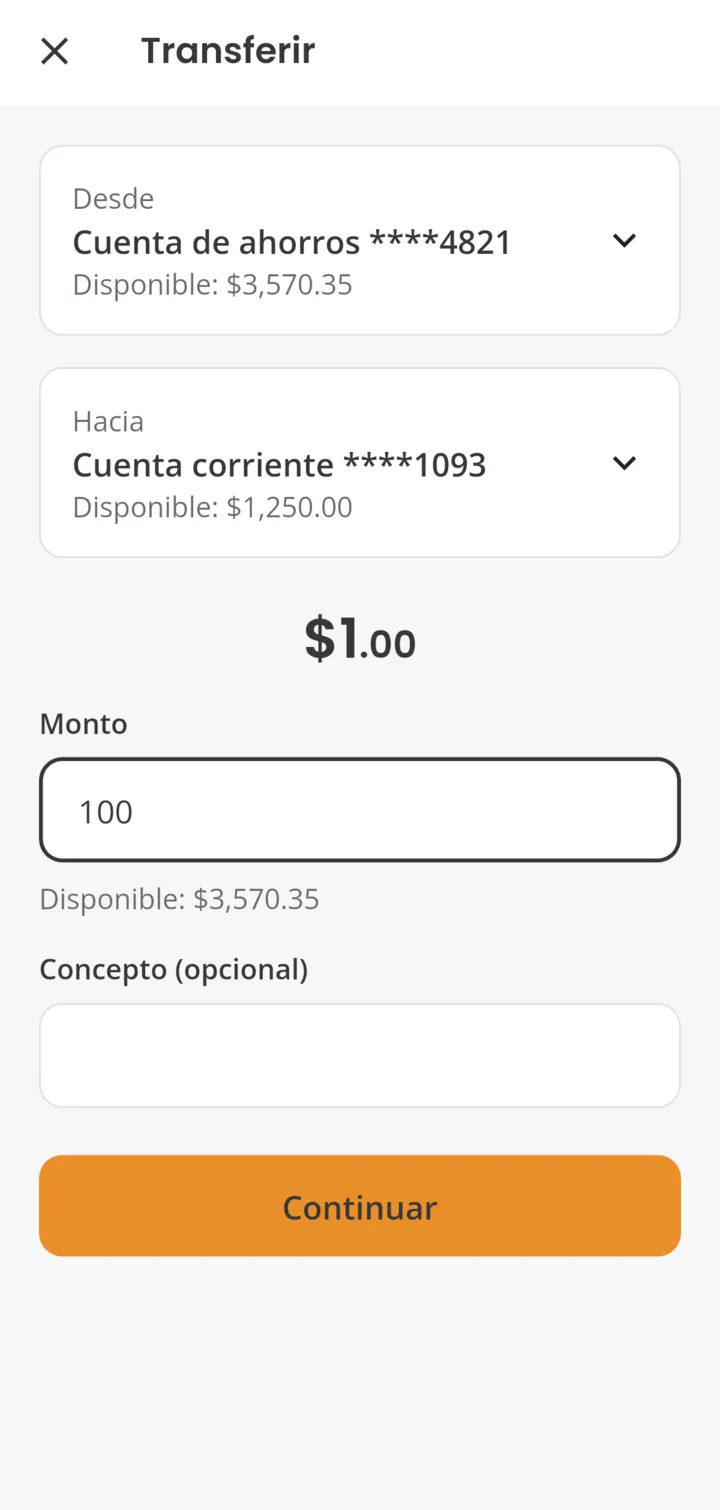
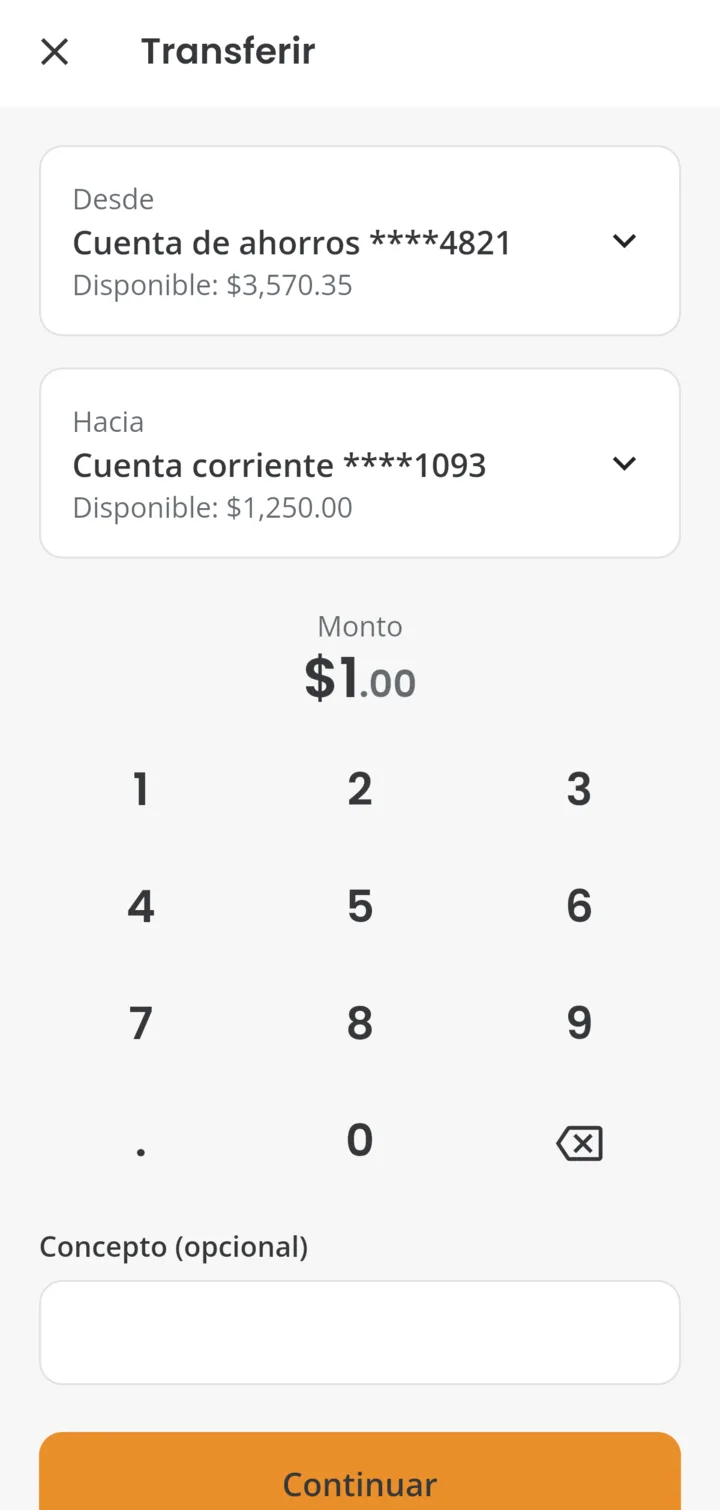
docs: describe the amount keypad and state what was checked on iOS
The transfer form image and its caption show the keypad. The iOS notes
say the app was walked through on a physical iPhone without failures,
that push is not configured there and that the detailed checks were made
on Android. The README gains the steps to build for iOS.

diff --git a/apps/showroom/public/documentacion.html b/apps/showroom/public/documentacion.html
@@ -96,7 +96,7 @@
 
               <h3>Transferencias</h3>
               <ul class="shots">
-                <li><figure class="shot"><a href="assets/img/app-transferir.webp"><img src="assets/img/app-transferir.webp" width="720" height="1510" loading="lazy" alt="Formulario de transferencia con cuenta de origen, cuenta de destino, monto y concepto. El campo muestra 100 y el importe $1.00."></a><figcaption>Formulario. El monto se escribe en centavos: 100 es $1.00.</figcaption></figure></li>
+                <li><figure class="shot"><a href="assets/img/app-transferir.webp"><img src="assets/img/app-transferir.webp" width="720" height="1510" loading="lazy" alt="Formulario de transferencia con cuenta de origen, cuenta de destino, monto, teclado numérico en pantalla y concepto. El importe muestra $1.00."></a><figcaption>Formulario. El monto se escribe con el teclado de la pantalla: 1 es $1.00.</figcaption></figure></li>
                 <li><figure class="shot"><a href="assets/img/app-transferir-confirmar.webp"><img src="assets/img/app-transferir-confirmar.webp" width="720" height="1510" loading="lazy" alt="Confirmación de la transferencia con el monto y las dos cuentas."></a><figcaption>Confirmación.</figcaption></figure></li>
                 <li><figure class="shot"><a href="assets/img/app-transferir-resultado.webp"><img src="assets/img/app-transferir-resultado.webp" width="720" height="1510" loading="lazy" alt="Resultado Transferencia realizada con el monto y la referencia."></a><figcaption>Resultado, con la referencia del servidor.</figcaption></figure></li>
               </ul>
@@ -273,7 +273,7 @@
                     <tr><td>Notificaciones y bandeja</td><td><span class="state state--yes">Visto en un teléfono</span></td><td>Android. Un envío a un segmento desde la consola desplegada llegó al teléfono.</td></tr>
                     <tr><td>Servicios de aliados</td><td><span class="state state--part">Simulado</span></td><td>Los dos aliados son de demostración y comparten servidor con la consola.</td></tr>
                     <tr><td>Prueba de extremo a extremo</td><td><span class="state state--part">Parcial</span></td><td>Pasó en un teléfono en su primera versión; la actual, de ida y vuelta, no tiene una ejecución válida registrada y no corre en la integración continua.</td></tr>
-                    <tr><td>iOS</td><td><span class="state state--part">Parcial</span></td><td>La aplicación compila, se instala y arranca en un iPhone físico. Sus flujos no se recorrieron en iOS y las notificaciones no están configuradas allí.</td></tr>
+                    <tr><td>iOS</td><td><span class="state state--part">Parcial</span></td><td>La aplicación compila, se instala y funciona en un iPhone físico; la recorrí allí sin encontrar fallos. Las notificaciones push no están configuradas en iOS y las comprobaciones detalladas se hicieron en Android.</td></tr>
                     <tr><td>Asistente o recomendaciones por comportamiento</td><td><span class="state state--no">No construido</span></td><td>La personalización es por segmento, intereses y configuración.</td></tr>
                     <tr><td>Controles de producción</td><td><span class="state state--no">No construido</span></td><td>Sin verificación de correo, límites de frecuencia ni comprobación de la aplicación. El registro es abierto y crea dinero de demostración.</td></tr>
                   </tbody>

diff --git a/docs/alcance-y-riesgos.md b/docs/alcance-y-riesgos.md
@@ -1,8 +1,8 @@
 # Alcance, supuestos, riesgos y escalamiento
 
-Qué pedía el reto, qué se construyó, cómo se comprobó cada cosa y qué se dejó fuera a propósito. Las cifras de pruebas son las de la última verificación completa (`tool/verify.sh`): 1866 pruebas de Dart en nueve paquetes, 615 del servidor y la consola, 110 de las reglas de Firestore y 31 de las herramientas de carga.
+Qué pedía el reto, qué se construyó, cómo se comprobó cada cosa y qué se dejó fuera a propósito. Las cifras de pruebas son las de la última verificación completa (`tool/verify.sh`): 1921 pruebas de Dart en nueve paquetes, 615 del servidor y la consola, 110 de las reglas de Firestore y 31 de las herramientas de carga.
 
-«Dispositivo» significa un teléfono Android físico contra el proyecto real de Firebase. En casi todas las comprobaciones el servidor se ejecutaba en local; las que se hicieron contra el servidor desplegado lo dicen. En iOS la aplicación compila, se instala y arranca en un iPhone físico, pero ninguna comprobación de esta tabla se hizo en iOS.
+«Dispositivo» significa un teléfono Android físico contra el proyecto real de Firebase. En casi todas las comprobaciones el servidor se ejecutaba en local; las que se hicieron contra el servidor desplegado lo dicen. En iOS la aplicación compila, se instala y funciona en un iPhone físico, y el autor la recorrió allí sin encontrar fallos; las comprobaciones de esta tabla, caso por caso, se hicieron en Android y no se repitieron en iOS.
 
 ## Requisitos del reto
 
@@ -17,7 +17,7 @@ Qué pedía el reto, qué se construyó, cómo se comprobó cada cosa y qué se 
 | Notificaciones push para clientes | `packages/feature_notifications`, envío en `apps/backoffice/lib/server/push.ts` ([ADR 0018](adr/0018-notificaciones-y-bandeja.md)) | Pruebas; envío real a un cliente y a un segmento, bandeja, cambio de segmento, cierre de sesión y segundo cliente en el mismo teléfono vistos en dispositivo | Cumplido en Android. Sin verificar: el texto oculto en la pantalla de bloqueo y la sesión revocada. En iOS no están configuradas: falta la clave APNs |
 | Explicar cómo se monitorearía en producción y cómo se detectarían problemas | [operacion/monitoreo.md](operacion/monitoreo.md), [ADR 0010](adr/0010-observabilidad.md), Perfil > Diagnóstico | Los eventos y trazas se emiten y están cubiertos por pruebas de su contenido | Cumplido como explicación. No se comprobó la llegada de los datos a la consola de Firebase y no hay alertas configuradas |
 | Describir el comportamiento ante conectividad limitada, alta latencia o indisponibilidad parcial | [operacion/conectividad-degradada.md](operacion/conectividad-degradada.md), [ADR 0009](adr/0009-politica-de-resiliencia.md) | Cada fila del documento indica si se vio en dispositivo o solo en pruebas | Cumplido |
-| Pruebas unitarias, de widgets y al menos un flujo E2E crítico | `test/` de cada paquete; `apps/mobile/integration_test/transfer_flow_test.dart` | 1866 pruebas de Dart en CI. El flujo E2E (iniciar sesión, transferir, ver el movimiento) pasó en dispositivo contra servicios reales | Parcial en el E2E: la versión actual, que transfiere y devuelve para poder repetirse, no tiene todavía una ejecución válida; la que pasó era de un solo sentido. No corre en CI |
+| Pruebas unitarias, de widgets y al menos un flujo E2E crítico | `test/` de cada paquete; `apps/mobile/integration_test/transfer_flow_test.dart` | 1921 pruebas de Dart en CI. El flujo E2E (iniciar sesión, transferir, ver el movimiento) pasó en dispositivo contra servicios reales | Parcial en el E2E: la versión actual, que transfiere y devuelve para poder repetirse, no tiene todavía una ejecución válida; la que pasó era de un solo sentido. No corre en CI |
 | Documentar el uso de herramientas de IA y su impacto | [ia/registro-uso-ia.md](ia/registro-uso-ia.md) | Resumen de las herramientas, el método de trabajo, las decisiones del autor y el impacto en productividad, calidad, documentación y pruebas | Cumplido |
 | Demostrar el comportamiento degradado: estados de carga, reintentos, caché y recuperación | Laboratorio de resiliencia de la consola y de `firebase/seed/publish-config.mjs`; compilación con `ALLOW_FAULT_INJECTION` | Visto en dispositivo: esqueletos, sin conexión con datos guardados, conexión lenta, falla parcial, recuperación, transferencia en cola que se liquida sola, aliado caído | Cumplido. Sin ver en dispositivo: el error de pantalla completa del inicio y los fallos publicados desde la consola (se publicaron con la herramienta de desarrollo; desde la consola se vio en el teléfono un cambio de orden de módulos) |
 
@@ -48,7 +48,7 @@ Lo que se dejó fuera y por qué. Cada una se tomó para proteger lo que más pe
 
 | Fuera de alcance | Por qué | Qué costaría añadirlo |
 | --- | --- | --- |
-| Flujos en iOS | La aplicación compila, se instala y arranca en un iPhone físico, pero no hubo tiempo de recorrer sus flujos en un segundo sistema; las notificaciones exigen una clave APNs | Recorrer los flujos, configurar APNs, el canal de ajustes del sistema y la limpieza de la vista web, que en iOS no cubre todo |
+| Verificación detallada en iOS | La aplicación compila, se instala y funciona en un iPhone físico, y el autor la recorrió sin encontrar fallos, pero los casos de esta tabla (fallas inyectadas, cola sin conexión, sesión revocada) no se repitieron uno por uno en un segundo sistema; las notificaciones exigen una clave APNs | Repetir los casos en iOS, configurar APNs, el canal de ajustes del sistema («Activar en Ajustes» no hace nada en iOS) y la limpieza de la vista web, que en iOS no cubre todo |
 | Tema oscuro | Duplica las combinaciones de color que las pruebas de contraste deben cubrir | Un segundo juego de tokens; las pruebas de contraste ya recorren una lista de combinaciones |
 | Traducciones | La aplicación tiene un solo público y un solo idioma | Extraer los textos, hoy agrupados por pantalla, a recursos |
 | Pruebas de imagen | Las fuentes se dibujan distinto en macOS y en el Linux de la CI; darían fallos falsos | Ejecutarlas solo en la CI con imágenes generadas allí |

diff --git a/README.md b/README.md
@@ -60,7 +60,7 @@ Diagramas: [componentes y dependencias](docs/arquitectura/componentes.md), [fluj
 | Documentación del uso de IA | Cumplido | |
 | Trunk Based Development | Cumplido | |
 
-La tabla completa, con dónde está cada cosa y cómo se comprobó, está en [docs/alcance-y-riesgos.md](docs/alcance-y-riesgos.md). El servidor está desplegado como demostración (ver [Demostración publicada](#demostración-publicada)); la aplicación no está publicada en ninguna tienda. En iOS compila, se instala y arranca en un iPhone físico; sus flujos no se recorrieron allí.
+La tabla completa, con dónde está cada cosa y cómo se comprobó, está en [docs/alcance-y-riesgos.md](docs/alcance-y-riesgos.md). El servidor está desplegado como demostración (ver [Demostración publicada](#demostración-publicada)); la aplicación no está publicada en ninguna tienda. En iOS compila, se instala y funciona en un iPhone físico: el autor recorrió la aplicación allí sin encontrar fallos, salvo las notificaciones push, que no están configuradas.
 
 ## Requisitos
 
@@ -195,6 +195,8 @@ flutter run -t lib/main_gallery.dart    # el sistema de diseño completo, sin ni
 
 Para instalar una compilación de demostración sin depender del modo de depuración: `flutter build apk --profile` con las mismas opciones y `adb install -r build/app/outputs/flutter-apk/app-profile.apk`.
 
+En iOS hace falta macOS con Xcode y CocoaPods, un iPhone con iOS 15 o superior y un equipo de desarrollo de Apple elegido en Xcode (`apps/mobile/ios/Runner.xcworkspace`, pestaña *Signing & Capabilities*); el identificador del equipo es de cada persona y no está versionado. Con el iPhone conectado, `flutter run` con las mismas opciones, o `flutter build ios --release` y `xcrun devicectl device install app --device <id> build/ios/iphoneos/Runner.app`.
+
 ## Pruebas
 
 ```bash
@@ -205,10 +207,10 @@ Comprueba el formato, el análisis estático, que no quede ninguna prueba enfoca
 
 | Suite | Pruebas | Qué cubre | Cómo se ejecuta sola |
 | --- | --- | --- | --- |
-| `packages/design_system` | 359 | Tokens contra `tokens.json`, contraste WCAG de cada combinación permitida, formato de importes, estados y semántica de cada componente, texto al 130 % | `flutter test` en la carpeta |
+| `packages/design_system` | 412 | Tokens contra `tokens.json`, contraste WCAG de cada combinación permitida, formato e ingreso de importes, estados y semántica de cada componente, texto al 130 % | `flutter test` en la carpeta |
 | `packages/app_platform` | 208 | Lectura tolerante de la configuración, esquema, orígenes de respaldo, política de resiliencia con reloj simulado, conectividad, telemetría sin datos del cliente | ídem |
 | `packages/feature_auth` | 286 | Cédula y demás validadores, sesión y sus carreras, registro, inicio de sesión, cuenta a medio crear, pantallas | ídem |
-| `packages/feature_accounts` | 444 | Cuentas y movimientos (origen, antigüedad, paginación), tendencia del saldo, transferencias (idempotencia, cola, resultados), pantallas en cada estado | ídem |
+| `packages/feature_accounts` | 446 | Cuentas y movimientos (origen, antigüedad, paginación), tendencia del saldo, transferencias (idempotencia, cola, resultados), pantallas en cada estado | ídem |
 | `packages/module_kit` | 19 | Registro de módulos, lectura de propiedades, aviso de estado, frontera del contrato | ídem |
 | `packages/feature_home` | 63 | Composición por segmento, tipos desconocidos, falla parcial frente a falla total, actualización | ídem |
 | `packages/feature_notifications` | 129 | Invitación al permiso, registro y olvido del dispositivo, teléfono compartido, bandeja, aviso tocado sin sesión | ídem |
@@ -219,7 +221,7 @@ Comprueba el formato, el análisis estático, que no quede ninguna prueba enfoca
 | Reglas de Firestore | 110 | Qué puede leer y escribir cada quien, caso permitido y casos denegados, contra el emulador | `npm ci` y `npm test` en `firebase` (Node, y Java 21 o superior el primero del `PATH`) |
 | Herramientas de carga | 31 | Saldos que cuadran con sus movimientos, documento publicado, identidades locales | `npm run test:seed` en `firebase` |
 
-En total, 1866 pruebas de Dart. No hay pruebas de imagen: las fuentes se dibujan distinto en macOS y en el Linux de la CI ([ADR 0007](docs/adr/0007-sistema-de-diseno.md)).
+En total, 1921 pruebas de Dart. No hay pruebas de imagen: las fuentes se dibujan distinto en macOS y en el Linux de la CI ([ADR 0007](docs/adr/0007-sistema-de-diseno.md)).
 
 ### Prueba de extremo a extremo
 
@@ -291,7 +293,7 @@ tool/                     setup.sh, verify.sh y local-stack.sh.
 
 ## Límites conocidos
 
-- **iOS:** la aplicación compila con `flutter build ios`, se instala y arranca en un iPhone físico. Sus flujos no se recorrieron en iOS, y las notificaciones push no están configuradas allí (requieren una clave APNs).
+- **iOS:** la aplicación compila con `flutter build ios`, se instala y funciona en un iPhone físico; el autor la recorrió allí sin encontrar fallos. Las notificaciones push no están configuradas en iOS (requieren una clave APNs) y «Activar en Ajustes» no abre los ajustes del sistema. Las comprobaciones detalladas de [docs/alcance-y-riesgos.md](docs/alcance-y-riesgos.md) se hicieron en Android y no se repitieron una por una en iOS.
 - **El servidor está desplegado solo como demostración** y la aplicación no está en ninguna tienda: se instala desde el código o desde un APK firmado con la clave de depuración de la plantilla. Falta la firma de publicación.
 - **El registro es abierto** y cada cliente nuevo recibe un depósito de demostración. Faltan verificación de correo, App Check y límites de frecuencia.
 - **Los aliados son simulados** y comparten servidor con la consola.

diff --git a/docs/adr/0017-transferencias-en-la-aplicacion.md b/docs/adr/0017-transferencias-en-la-aplicacion.md
@@ -67,6 +67,8 @@ Además, un cliente recién registrado no tiene cuentas: solo el servidor puede 
 
 **Cerrar sesión con órdenes sin enviar.** Cerrar sesión borra lo guardado en el dispositivo, y eso incluye las escrituras pendientes: esas órdenes no se enviarían nunca. La aplicación no cierra la sesión en silencio: avisa y solo continúa si el cliente lo confirma. La acción por defecto es quedarse. El aviso distingue dos casos, porque «descartar» solo es verdad para uno. Las órdenes que existen solo en el teléfono se descartan y no se enviarán. Las que el banco ya recibió no las puede retirar ningún cliente, porque las reglas no permiten borrar ni modificar una solicitud: el aviso dice que no se descartan y que se completarán cuando el cliente vuelva a iniciar sesión, que es cuando la aplicación pide su liquidación. Si solo hay órdenes de ese tipo, el botón dice «Cerrar sesión», sin «descartar».
 
+**El monto se escribe en dólares, con un teclado en la pantalla.** El formulario no usa el teclado del dispositivo para el monto: tiene sus propias teclas (los diez dígitos, el punto decimal y borrar), un componente del sistema de diseño. `1` es un dólar; los centavos van después del punto, hasta dos. Lo escrito se guarda como texto para mostrarlo tal cual (`1.` después del punto), y su valor se lee dígito a dígito a centavos enteros, sin pasar por un número decimal: `0.29` como decimal binario no son 29 centavos. Una primera versión desplazaba los dígitos como un cajero (escribir `100` para un dólar) y se descartó al probarla en un teléfono: no es lo que un cliente espera. Un teclado físico también escribe en él, con punto o coma como separador.
+
 **Validación antes de enviar.** Una función pura comprueba cuentas distintas, monto mayor que cero, máximo por transferencia y saldo disponible, con los mismos límites que el servidor y que la regla. El servidor decide de todos modos: la validación local solo evita un viaje que se sabe inútil.
 
 **Solo dinero disponible.** El formulario ofrece las cuentas de ahorros y corriente. Una inversión no se transfiere, ni en la aplicación ni en el servidor.

diff --git a/docs/adr/0018-notificaciones-y-bandeja.md b/docs/adr/0018-notificaciones-y-bandeja.md
@@ -98,7 +98,7 @@ Tras la integración se ejecutó en un teléfono Android, con la consola en loca
 
 Esa ejecución encontró dos defectos, corregidos con una prueba que falló primero: el aviso de un push recibido con la aplicación abierta no se retiraba solo y seguía en pantalla sobre otras pantallas, y un aviso tocado con la aplicación cerrada caía en la bandeja porque se abría antes de leerse la configuración.
 
-Sigue sin verificar: que el texto no se vea en la pantalla bloqueada (se comprobó que el aviso llega con visibilidad privada, no bloqueando el teléfono), el aviso tocado con el bloqueo biométrico activo, la sesión revocada desde la consola de Firebase, y todo lo de iOS (capacidad de notificaciones, APNs y `UIBackgroundModes`: la aplicación compila y arranca en un iPhone, pero sin clave APNs ni la capacidad de notificaciones no recibe avisos). Tocar un aviso del sistema no lo marca como leído en la bandeja.
+Sigue sin verificar: que el texto no se vea en la pantalla bloqueada (se comprobó que el aviso llega con visibilidad privada, no bloqueando el teléfono), el aviso tocado con el bloqueo biométrico activo, la sesión revocada desde la consola de Firebase, y todo lo de iOS (capacidad de notificaciones, APNs y `UIBackgroundModes`: la aplicación funciona en un iPhone, pero sin clave APNs ni la capacidad de notificaciones no recibe avisos). Tocar un aviso del sistema no lo marca como leído en la bandeja.
 
 ## Impacto a largo plazo
 

diff --git a/docs/operacion/despliegue.md b/docs/operacion/despliegue.md
@@ -152,7 +152,7 @@ Los tres más probables, con las señales que ya existen en [monitoreo.md](monit
 Dicho sin rodeos, porque nada de esto está hecho:
 
 - **Firma de publicación** de Android e iOS, y la canalización que compila y sube a las tiendas.
-- **iOS.** La aplicación compila con `flutter build ios`, se instala y arranca en un iPhone físico con firma de desarrollo. Faltan recorrer sus flujos, la clave APNs para las notificaciones y la firma de distribución.
+- **iOS.** La aplicación compila con `flutter build ios`, se instala y funciona en un iPhone físico con firma de desarrollo; el autor la recorrió allí sin encontrar fallos. Faltan repetir en iOS las comprobaciones detalladas hechas en Android, la clave APNs para las notificaciones y la firma de distribución.
 - **App Check**, para que Firestore y la API acepten solo la aplicación legítima.
 - **Restricción de las claves de cliente por aplicación** (paquete y huella en Android, identificador en iOS). Hoy solo están limitadas a las API de Firebase.
 - **Límites de frecuencia** en la API de clientes y en el acceso a la consola, y límites por cliente en las transferencias.

diff --git a/docs/operacion/conectividad-degradada.md b/docs/operacion/conectividad-degradada.md
@@ -175,4 +175,4 @@ En un teléfono se vio que un aviso tocado con la aplicación cerrada abre su de
 - **El servidor del aliado detenido, visto en un dispositivo.** Se comprobó la falta de conexión, no el servidor caído con conexión.
 - **El contador «Intento 2 de 3» del diseño.** La pantalla indica que está reintentando y, al terminar, cuántos intentos hubo.
 - **Detección de falta de salida real a internet.** El estado de conectividad dice si el dispositivo tiene una interfaz de red activa, no si esa red llega a internet (un portal cautivo, por ejemplo). En ese caso las peticiones agotan su tiempo y se muestran como una falla, no como «sin conexión».
-- **iOS.** La aplicación arranca en un iPhone físico, pero nada de lo anterior se ha comprobado en iOS.
+- **iOS.** La aplicación funciona en un iPhone físico, pero los casos de este documento se comprobaron en Android y no se repitieron en iOS.

diff --git a/docs/README.md b/docs/README.md
@@ -74,4 +74,4 @@ Los documentos citan las etapas por su número. El trabajo se hizo en once, cada
 ## Lo que la documentación no cubre
 
 - El servidor está desplegado como demostración y [su despliegue está documentado](operacion/backoffice.md#despliegue-en-firebase-app-hosting). No hay un entorno de producción ni publicación en tiendas, porque no se hicieron: [la estrategia](operacion/despliegue.md) describe cómo serían.
-- En iOS la aplicación compila, se instala y arranca en un iPhone físico. Sus flujos no se recorrieron allí; ningún documento los da por verificados en iOS.
+- En iOS la aplicación compila, se instala y funciona en un iPhone físico: el autor la recorrió allí sin encontrar fallos. Las comprobaciones detalladas que citan los documentos se hicieron en Android y no se repitieron una por una en iOS; las notificaciones push no están configuradas allí.
